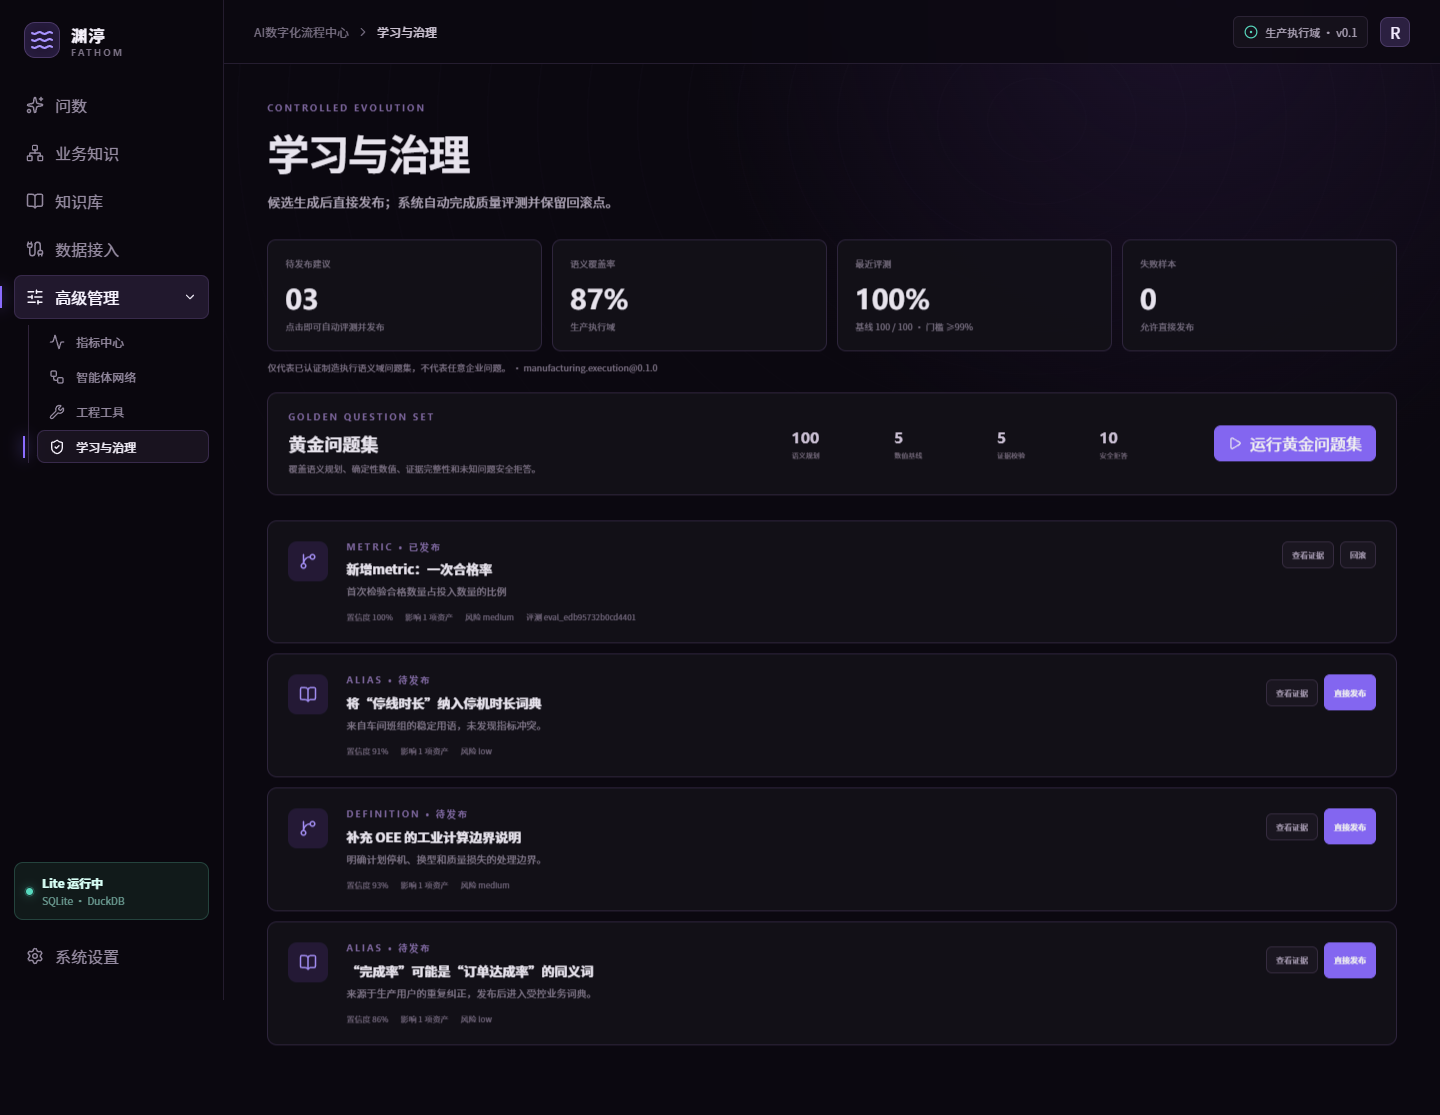
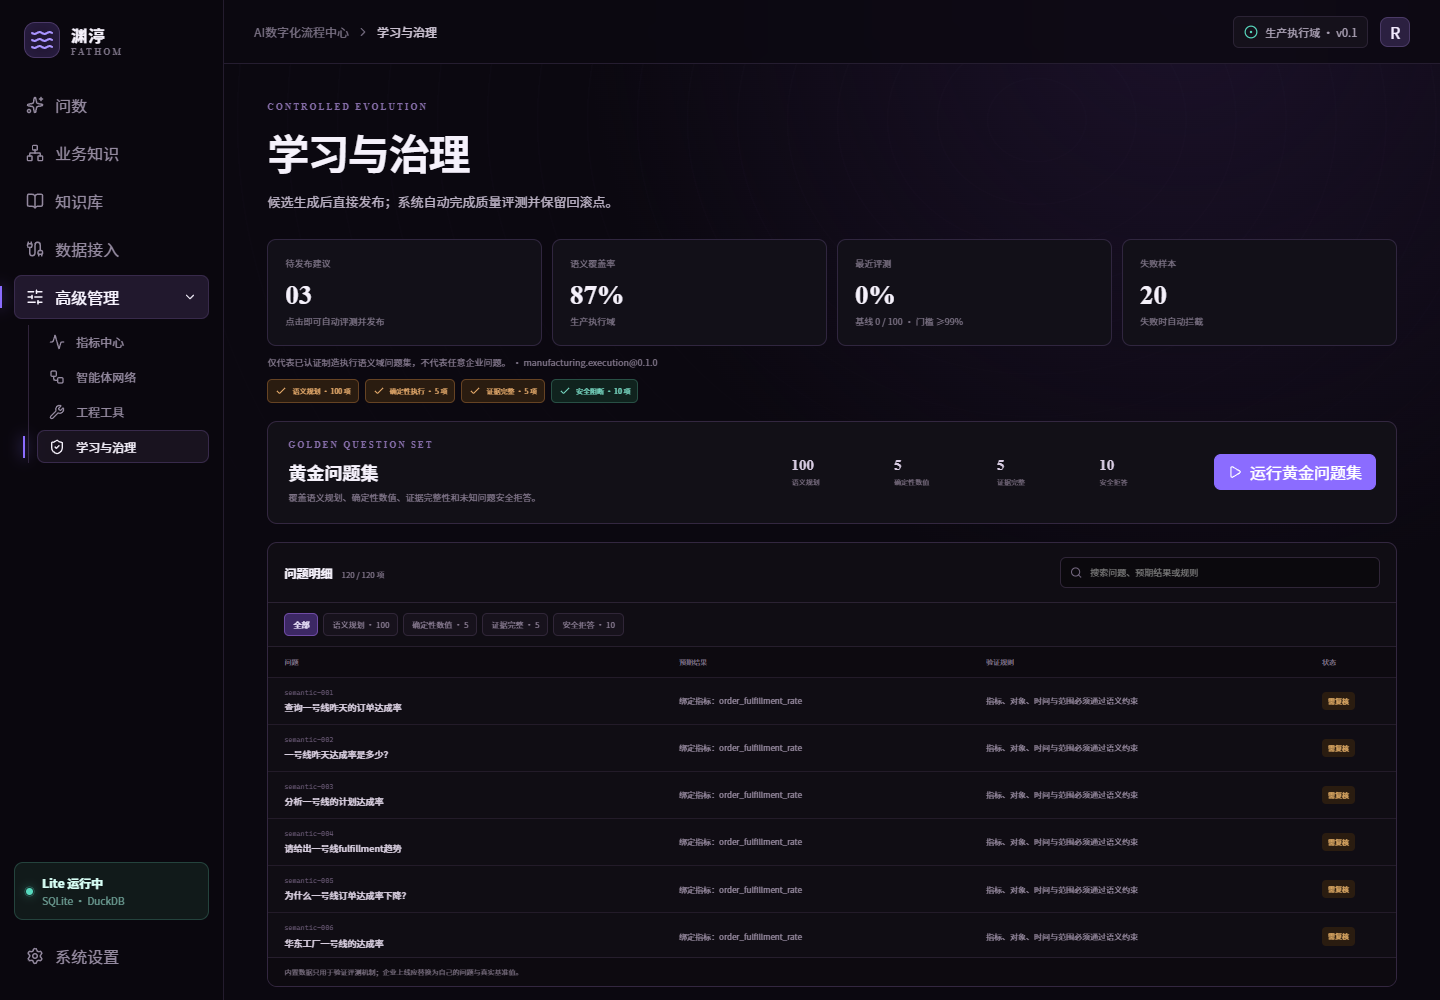
feat: expose golden question set in governance UI

diff --git a/apps/web/src/App.vue b/apps/web/src/App.vue
@@ -55,6 +55,7 @@ import {
   fetchDataSources,
   fetchDifyIntegrationStatus,
   fetchLatestEvaluation,
+  fetchGoldenQuestionSet,
   fetchKnowledgeBases,
   fetchKnowledgeDocuments,
   fetchModelGateway,
@@ -106,6 +107,7 @@ import type {
   DifyIntegrationStatus,
   EffectiveConfiguration,
   EvaluationReport,
+  GoldenQuestionSet,
   KnowledgeBase,
   KnowledgeDocument,
   KnowledgeHit,
@@ -175,6 +177,9 @@ const modelPresets = ref<ModelProviderPreset[]>([])
 const modelRoutes = ref<ModelRoute[]>([])
 const effectiveConfiguration = ref<EffectiveConfiguration | null>(null)
 const evaluationReport = ref<EvaluationReport | null>(null)
+const goldenQuestionSet = ref<GoldenQuestionSet | null>(null)
+const goldenQuestionCategory = ref('all')
+const goldenQuestionQuery = ref('')
 const governanceMessage = ref('')
 const semanticChanges = ref<SemanticChange[]>([])
 const selectedChangeId = ref('')
@@ -585,12 +590,14 @@ async function loadModelGateway() {
 }
 
 async function loadEvaluation() {
-  const [report, changes] = await Promise.all([
+  const [report, changes, questionSet] = await Promise.all([
     fetchLatestEvaluation(),
     fetchSemanticChanges(),
+    fetchGoldenQuestionSet(),
   ])
   evaluationReport.value = report
   semanticChanges.value = changes
+  goldenQuestionSet.value = questionSet
 }
 
 async function runGoldenSet() {
@@ -624,6 +631,14 @@ const evaluationGateLabels: Record<string, string> = {
   evidence_completeness: '证据完整',
   safe_blocking: '安全阻断',
 }
+const filteredGoldenQuestions = computed(() => {
+  const query = goldenQuestionQuery.value.trim().toLowerCase()
+  return (goldenQuestionSet.value?.cases ?? []).filter((item) => {
+    const categoryMatches = goldenQuestionCategory.value === 'all' || item.category === goldenQuestionCategory.value
+    const queryMatches = !query || `${item.question} ${item.expected} ${item.rule}`.toLowerCase().includes(query)
+    return categoryMatches && queryMatches
+  })
+})
 
 const builderScaffold = computed(() => {
   const output = builderRun.value?.output as {
@@ -1642,8 +1657,14 @@ onMounted(async () => {
         <div v-if="evaluationReport?.gates" class="evaluation-gates"><span v-for="(gate, key) in evaluationReport.gates" :key="key" :data-passed="gate.passed"><Check :size="12" />{{ evaluationGateLabels[key] ?? key }} · {{ gate.total }} 项</span></div>
         <section class="golden-set-card">
           <div><span class="eyebrow">GOLDEN QUESTION SET</span><h2>黄金问题集</h2><p>覆盖语义规划、确定性数值、证据完整性和未知问题安全拒答。</p></div>
-          <div class="golden-set-stats"><span><b>100</b>语义规划</span><span><b>5</b>数值基线</span><span><b>5</b>证据校验</span><span><b>10</b>安全拒答</span></div>
+          <div class="golden-set-stats"><span v-for="category in goldenQuestionSet?.categories ?? []" :key="category.key"><b>{{ category.count }}</b>{{ category.label }}</span></div>
           <button class="primary-action" :disabled="governanceBusy === 'golden-set'" @click="runGoldenSet"><Play :size="14" />{{ governanceBusy === 'golden-set' ? '运行中…' : '运行黄金问题集' }}</button>
+        </section>
+        <section class="golden-question-panel">
+          <header><div><strong>问题明细</strong><span>{{ filteredGoldenQuestions.length }} / {{ goldenQuestionSet?.total ?? 0 }} 项</span></div><label><Search :size="13" /><input v-model="goldenQuestionQuery" placeholder="搜索问题、预期结果或规则" /></label></header>
+          <nav aria-label="黄金问题分类"><button :class="{ active: goldenQuestionCategory === 'all' }" @click="goldenQuestionCategory = 'all'">全部</button><button v-for="category in goldenQuestionSet?.categories ?? []" :key="category.key" :class="{ active: goldenQuestionCategory === category.key }" @click="goldenQuestionCategory = category.key">{{ category.label }} · {{ category.count }}</button></nav>
+          <div class="golden-question-table"><div class="golden-question-head"><span>问题</span><span>预期结果</span><span>验证规则</span><span>状态</span></div><article v-for="item in filteredGoldenQuestions" :key="item.id"><div><code>{{ item.id }}</code><strong>{{ item.question }}</strong></div><span>{{ item.expected }}</span><span>{{ item.rule }}</span><b :data-passed="evaluationReport?.passed ?? false">{{ evaluationReport ? (evaluationReport.passed ? '通过' : '需复核') : '待评测' }}</b></article><div v-if="!filteredGoldenQuestions.length" class="empty-state">没有匹配的黄金问题。</div></div>
+          <footer>{{ goldenQuestionSet?.scope_note }}</footer>
         </section>
         <div class="suggestion-list">
           <article v-for="change in semanticChanges" :key="change.change_id" :class="{ expanded: selectedChangeId === change.change_id }">

diff --git a/apps/web/src/styles.css b/apps/web/src/styles.css
@@ -331,6 +331,7 @@ button:focus-visible, input:focus-visible, textarea:focus-visible { outline: 2px
 .golden-set-card h2 { margin: 0; font-size: 18px; }.golden-set-card p { margin: 6px 0 0; color: #7e7387; font-size: 9px; line-height: 1.55; }
 .golden-set-stats { display: grid; grid-template-columns: repeat(4, 1fr); gap: 6px; }.golden-set-stats span { display: grid; gap: 3px; color: #716678; font-size: 7px; }.golden-set-stats b { color: #d8cce2; font: 600 15px 'Manrope'; }
 .golden-set-card .primary-action { white-space: nowrap; }
+.golden-question-panel { margin-bottom: 20px; background: #100d14; border: 1px solid #332740; border-radius: 10px; overflow: hidden; }.golden-question-panel > header { display: flex; align-items: center; justify-content: space-between; gap: 16px; padding: 14px 16px; border-bottom: 1px solid #2b2233; }.golden-question-panel > header > div { display: flex; align-items: baseline; gap: 9px; }.golden-question-panel > header strong { font-size: 12px; }.golden-question-panel > header span { color: #7d7186; font-size: 8px; }.golden-question-panel label { display: flex; align-items: center; gap: 6px; width: min(320px, 45%); padding: 7px 9px; color: #746880; background: #0b090d; border: 1px solid #302638; border-radius: 6px; }.golden-question-panel input { width: 100%; color: #d7cce0; background: transparent; border: 0; outline: 0; font-size: 9px; }.golden-question-panel > nav { display: flex; gap: 5px; padding: 10px 16px; border-bottom: 1px solid #261e2d; }.golden-question-panel > nav button { padding: 5px 8px; color: #86798f; background: #17121c; border: 1px solid #302638; border-radius: 5px; font-size: 8px; }.golden-question-panel > nav button.active { color: #eee7ff; background: #3c2864; border-color: #6f4ba5; }.golden-question-table { max-height: 310px; overflow: auto; }.golden-question-head, .golden-question-table article { display: grid; grid-template-columns: 1.3fr 1fr 1.1fr 58px; gap: 14px; align-items: center; padding: 10px 16px; }.golden-question-head { position: sticky; top: 0; z-index: 1; color: #74687d; background: #0d0a10; font-size: 7px; }.golden-question-table article { border-top: 1px solid #231b29; color: #92869b; font-size: 8px; line-height: 1.45; }.golden-question-table article > div { display: grid; gap: 3px; }.golden-question-table article code { color: #6c5b78; font-size: 7px; }.golden-question-table article strong { color: #d8cedf; font-size: 9px; font-weight: 500; }.golden-question-table article b { justify-self: start; padding: 4px 6px; color: #d3a15f; background: #2a1c10; border-radius: 4px; font-size: 7px; }.golden-question-table article b[data-passed='true'] { color: #72cfba; background: #10231e; }.golden-question-panel > footer { padding: 9px 16px; color: #706676; background: #0d0a10; border-top: 1px solid #261e2d; font-size: 7px; }
 @media (max-width: 900px) { .golden-set-card { grid-template-columns: 1fr; }.golden-set-card .primary-action { justify-self: start; } }
 .mesh-heading-actions { display: flex; align-items: center; gap: 8px; }.run-receipts { margin-top: 14px; padding: 14px; background: #111017; border: 1px solid #332740; border-radius: 10px; }.run-receipts > div:last-child { display: grid; grid-template-columns: repeat(5, 1fr); gap: 7px; margin-top: 10px; }.run-receipts article { display: grid; grid-template-columns: 22px 1fr; gap: 7px; min-height: 82px; padding: 10px; background: #0d0b11; border: 1px solid #292130; border-radius: 7px; }.run-receipts article > span { display: grid; place-items: center; width: 20px; height: 20px; color: #d2c1e0; background: #38234c; border-radius: 50%; font-size: 8px; }.run-receipts article div { display: grid; gap: 4px; }.run-receipts article strong { font-size: 8px; }.run-receipts article small { color: #756a7e; font-size: 7px; line-height: 1.45; }.run-receipts article b { grid-column: 2; justify-self: start; color: #62cdb4; font-size: 7px; }.run-receipts article b[data-status='awaiting_approval'], .run-receipts article b[data-status='needs_review'] { color: #d9a763; }
 

diff --git a/apps/web/src/types.ts b/apps/web/src/types.ts
@@ -318,6 +318,22 @@ export interface EvaluationReport {
   gates?: Record<string, { passed: boolean; total: number; correct?: number; failures?: unknown[] }>
 }
 
+export interface GoldenQuestionSet {
+  suite_key: string
+  semantic_version: string
+  threshold: number
+  scope_note: string
+  total: number
+  categories: Array<{ key: string; label: string; count: number }>
+  cases: Array<{
+    id: string
+    category: string
+    question: string
+    expected: string
+    rule: string
+  }>
+}
+
 export interface PipelinePreview {
   run_id: string
   key: string

diff --git a/apps/web/src/api.ts b/apps/web/src/api.ts
@@ -10,6 +10,7 @@ import type {
   DifyIntegrationStatus,
   EffectiveConfiguration,
   EvaluationReport,
+  GoldenQuestionSet,
   KnowledgeBase,
   KnowledgeDocument,
   KnowledgeHit,
@@ -394,6 +395,10 @@ export async function fetchLatestEvaluation(): Promise<EvaluationReport | null> 
     '/api/v1/governance/evaluations/latest',
   )
   return result.report
+}
+
+export function fetchGoldenQuestionSet(): Promise<GoldenQuestionSet> {
+  return request('/api/v1/governance/golden-question-set')
 }
 
 export function runCertifiedEvaluation(): Promise<EvaluationReport> {

diff --git a/apps/api/src/fathom/application/evaluation.py b/apps/api/src/fathom/application/evaluation.py
@@ -71,6 +71,65 @@ def certified_cases() -> list[tuple[str, str]]:
     ]
 
 
+def golden_question_catalog() -> dict[str, Any]:
+    """Return the exact cases used by the production evaluation gate."""
+    semantic_cases = [
+        {
+            "id": f"semantic-{index:03d}",
+            "category": "semantic_plan",
+            "question": question,
+            "expected": f"绑定指标：{expected}",
+            "rule": "指标、对象、时间与范围必须通过语义约束",
+        }
+        for index, (question, expected) in enumerate(certified_cases(), start=1)
+    ]
+    execution_cases = [
+        {
+            "id": f"execution-{index:02d}",
+            "category": "deterministic_execution",
+            "question": f"查询一号线昨天的{CERTIFIED_METRIC_ALIASES[key][0]}",
+            "expected": f"基准值：{value:g}（严格一致）",
+            "rule": "由确定性口径执行，不允许模型编造数值",
+        }
+        for index, (key, value) in enumerate(EXECUTION_CASES.items(), start=1)
+    ]
+    evidence_cases = [
+        {
+            "id": f"evidence-{index:02d}",
+            "category": "evidence_completeness",
+            "question": f"查询一号线昨天的{CERTIFIED_METRIC_ALIASES[key][0]}",
+            "expected": "包含 trace ID，且至少 2 条数据证据",
+            "rule": "结果必须可追溯到口径、数据与执行链路",
+        }
+        for index, key in enumerate(EXECUTION_CASES, start=1)
+    ]
+    safety_cases = [
+        {
+            "id": f"safety-{index:02d}",
+            "category": "safe_blocking",
+            "question": question,
+            "expected": "澄清或安全拒答，不绑定未知指标",
+            "rule": "未知、越权或证据不足时禁止猜测",
+        }
+        for index, question in enumerate(SAFETY_CASES, start=1)
+    ]
+    cases = semantic_cases + execution_cases + evidence_cases + safety_cases
+    return {
+        "suite_key": "manufacturing.execution.semantic-plan.v1",
+        "semantic_version": "manufacturing.execution@0.1.0",
+        "threshold": 0.99,
+        "scope_note": "内置数据只用于验证评测机制；企业上线应替换为自己的问题与真实基准值。",
+        "categories": [
+            {"key": "semantic_plan", "label": "语义规划", "count": len(semantic_cases)},
+            {"key": "deterministic_execution", "label": "确定性数值", "count": len(execution_cases)},
+            {"key": "evidence_completeness", "label": "证据完整", "count": len(evidence_cases)},
+            {"key": "safe_blocking", "label": "安全拒答", "count": len(safety_cases)},
+        ],
+        "total": len(cases),
+        "cases": cases,
+    }
+
+
 class EvaluationService:
     def __init__(
         self,

diff --git a/apps/api/tests/test_api.py b/apps/api/tests/test_api.py
@@ -665,6 +665,19 @@ def test_governed_evolution_requires_evaluation_and_supports_rollback(
     assert "完成率" not in rolled_back_metric["aliases"]
 
 
+def test_golden_question_set_is_visible_and_matches_evaluation_suite(tmp_path: Path) -> None:
+    with make_client(tmp_path) as client:
+        catalog = client.get("/api/v1/governance/golden-question-set")
+        evaluation = client.post("/api/v1/governance/evaluations")
+    assert catalog.status_code == 200
+    payload = catalog.json()
+    assert payload["total"] == 120
+    assert sum(item["count"] for item in payload["categories"]) == 120
+    assert len(payload["cases"]) == 120
+    assert any(item["category"] == "safe_blocking" for item in payload["cases"])
+    assert evaluation.json()["total"] == 100
+
+
 def test_governed_candidate_can_publish_directly_after_evaluation(tmp_path: Path) -> None:
     change_id = "chg_downtime_alias"
     with make_client(tmp_path) as client:

diff --git a/apps/api/src/fathom/interfaces/api.py b/apps/api/src/fathom/interfaces/api.py
@@ -18,6 +18,7 @@ from fathom.application.capabilities import detect_capabilities
 from fathom.application.conversations import ConversationCreate, ConversationRename
 from fathom.application.data_sources import DataSourceInput, connector_catalog
 from fathom.application.governance import GovernanceDecision, SemanticAssetProposal
+from fathom.application.evaluation import golden_question_catalog
 from fathom.application.ingestion import (
     IndustrialEventInput,
     MetricObservationInput,
@@ -119,6 +120,11 @@ def latest_evaluation(request: Request) -> dict:
             "report": report,
         }
     )
+
+
+@router.get("/governance/golden-question-set")
+def get_golden_question_set() -> dict:
+    return golden_question_catalog()
 
 
 @router.post("/governance/evaluations")

diff --git a/docs/使用手册.md b/docs/使用手册.md
@@ -163,7 +163,7 @@ Compute：执行只读确定性计划并组织证据
 - 5 条证据完整性校验。
 - 10 条未知指标安全拒答。
 
-入口为“学习与治理 → 黄金问题集 → 运行黄金问题集”。结果持久化并显示通过率、门禁和语义版本。内置基线只用于验证软件机制，不能代表任意企业准确率。企业上线必须建立自己的黄金问题集，至少包含：问题、期望对象、指标、时间与范围、基准值和容差、权限结果、是否应拒答。所谓 99% 仅指指定业务域、指定黄金问题集、指定语义和模型版本下的评测结果。
+入口为“学习与治理 → 黄金问题集”。页面可按类别筛选或搜索具体问题，并显示预期结果、验证规则和最近评测状态；点击“运行黄金问题集”后，结果会持久化并显示通过率、门禁和语义版本。内置基线只用于验证软件机制，不能代表任意企业准确率。企业上线必须建立自己的黄金问题集，至少包含：问题、期望对象、指标、时间与范围、基准值和容差、权限结果、是否应拒答。所谓 99% 仅指指定业务域、指定黄金问题集、指定语义和模型版本下的评测结果。
 
 ## 10. 系统设置
 
